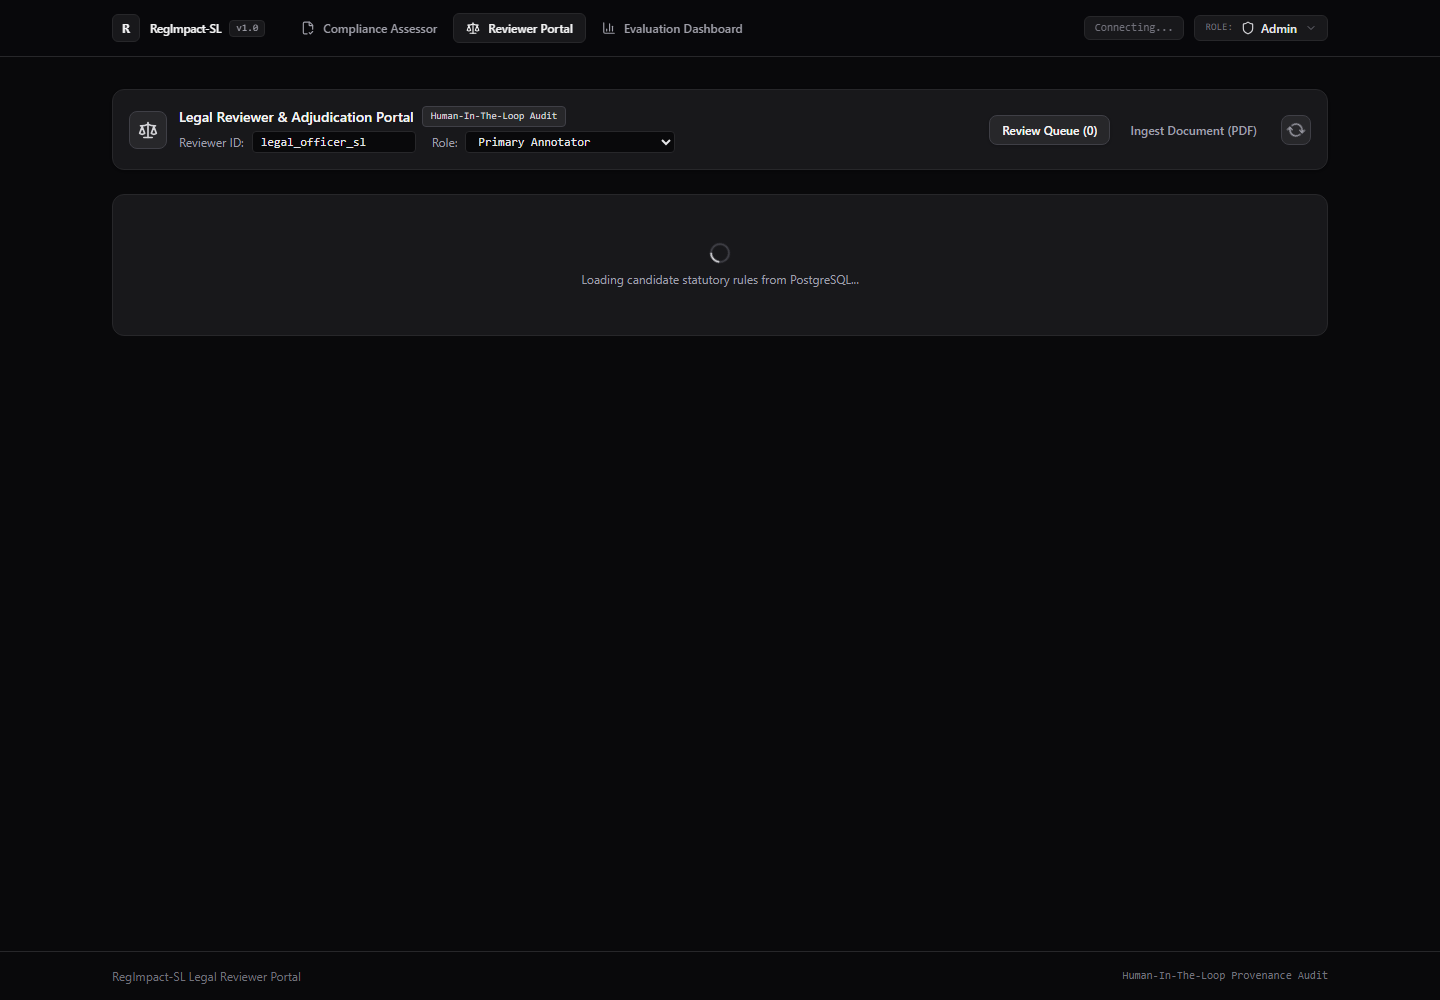
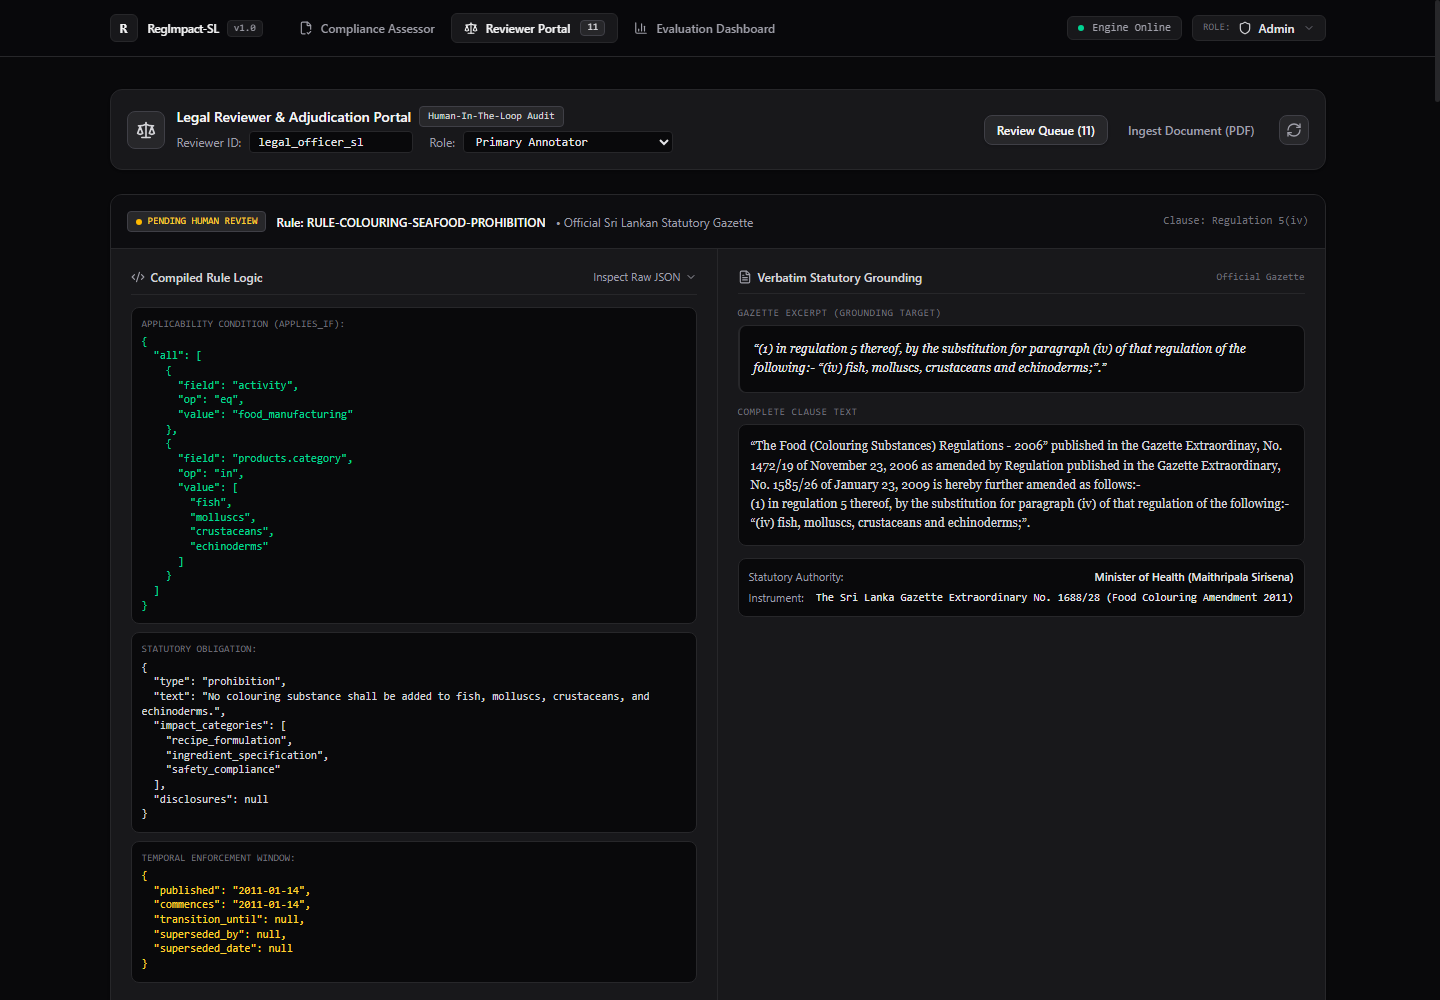
test: add automated post-ingestion evidence capture script and screenshots for phase 5.3b

diff --git a/scratch/capture_post_ingestion_evidence.js b/scratch/capture_post_ingestion_evidence.js
@@ -1,0 +1,221 @@
+const { spawn } = require('child_process');
+const http = require('http');
+const fs = require('fs');
+const path = require('path');
+
+const EDGE_PATH = 'C:\\Program Files (x86)\\Microsoft\\Edge\\Application\\msedge.exe';
+const USER_DATA_DIR = 'C:\\Users\\HP\\AppData\\Local\\Temp\\edge_cdp_uat_evidence_' + Date.now();
+const PORT = 9230;
+const EVIDENCE_DIR = path.resolve(__dirname, '../docs/evidence/phase_5_3b');
+
+function wait(ms) {
+  return new Promise(resolve => setTimeout(resolve, ms));
+}
+
+function getJson(url) {
+  return new Promise((resolve, reject) => {
+    http.get(url, res => {
+      let data = '';
+      res.on('data', chunk => data += chunk);
+      res.on('end', () => {
+        try {
+          resolve(JSON.parse(data));
+        } catch (e) {
+          reject(e);
+        }
+      });
+    }).on('error', reject);
+  });
+}
+
+class CDPClient {
+  constructor(wsUrl) {
+    this.ws = new WebSocket(wsUrl);
+    this.id = 1;
+    this.callbacks = new Map();
+    this.ws.onmessage = (event) => {
+      const msg = JSON.parse(event.data);
+      if (msg.id && this.callbacks.has(msg.id)) {
+        const { resolve, reject } = this.callbacks.get(msg.id);
+        this.callbacks.delete(msg.id);
+        if (msg.error) reject(msg.error);
+        else resolve(msg.result);
+      }
+    };
+  }
+
+  ready() {
+    return new Promise((resolve, reject) => {
+      if (this.ws.readyState === WebSocket.OPEN) return resolve();
+      this.ws.onopen = () => resolve();
+      this.ws.onerror = (e) => reject(e);
+    });
+  }
+
+  send(method, params = {}) {
+    const id = this.id++;
+    return new Promise((resolve, reject) => {
+      this.callbacks.set(id, { resolve, reject });
+      this.ws.send(JSON.stringify({ id, method, params }));
+    });
+  }
+
+  async eval(expression) {
+    const res = await this.send('Runtime.evaluate', {
+      expression,
+      returnByValue: true,
+      awaitPromise: true,
+    });
+    if (res.exceptionDetails) {
+      throw new Error(JSON.stringify(res.exceptionDetails));
+    }
+    return res.result ? res.result.value : undefined;
+  }
+
+  async navigate(url) {
+    await this.send('Page.navigate', { url });
+    await wait(2500);
+  }
+
+  async captureScreenshot(filename) {
+    const res = await this.send('Page.captureScreenshot', { format: 'png' });
+    const fullPath = path.join(EVIDENCE_DIR, filename);
+    fs.writeFileSync(fullPath, Buffer.from(res.data, 'base64'));
+    console.log(`[SCREENSHOT] Saved: ${filename}`);
+    return fullPath;
+  }
+}
+
+async function captureEvidence() {
+  console.log('=== CAPTURING POST-INGESTION EVIDENCE ===');
+
+  const edge = spawn(EDGE_PATH, [
+    '--headless=new',
+    '--disable-gpu',
+    '--remote-debugging-port=' + PORT,
+    '--user-data-dir=' + USER_DATA_DIR,
+    'about:blank',
+  ]);
+
+  let targets = null;
+  for (let i = 0; i < 25; i++) {
+    await wait(400);
+    try {
+      targets = await getJson(`http://127.0.0.1:${PORT}/json/list`);
+      if (targets && targets.length > 0) break;
+    } catch (e) {}
+  }
+
+  if (!targets || targets.length === 0) {
+    edge.kill();
+    throw new Error('Could not connect to Edge CDP');
+  }
+
+  const pageTarget = targets.find(t => t.type === 'page') || targets[0];
+  const cdp = new CDPClient(pageTarget.webSocketDebuggerUrl);
+  await cdp.ready();
+  await cdp.send('Page.enable');
+  await cdp.send('DOM.enable');
+
+  await cdp.send('Emulation.setDeviceMetricsOverride', {
+    width: 1440,
+    height: 1000,
+    deviceScaleFactor: 1,
+    mobile: false,
+  });
+
+  // 1. ADMIN DASHBOARD POST-INGESTION
+  console.log('\n--- 1. Admin Review & Ingestion Interface ---');
+  await cdp.navigate('http://localhost:3000/admin/reviews');
+  await cdp.eval(`
+    localStorage.setItem('user_role', 'admin');
+    window.dispatchEvent(new CustomEvent('regimpact:role_change', { detail: { role: 'admin' } }));
+  `);
+  await wait(1000);
+  await cdp.navigate('http://localhost:3000/admin/reviews');
+  await wait(2000);
+
+  // Check upload tab status
+  await cdp.eval(`
+    const ingestBtn = Array.from(document.querySelectorAll('button')).find(b => b.textContent.includes('Ingest Document'));
+    if (ingestBtn) ingestBtn.click();
+  `);
+  await wait(1000);
+  await cdp.captureScreenshot('03_upload_result.png');
+
+  // Check review queue tab
+  await cdp.eval(`
+    const queueBtn = Array.from(document.querySelectorAll('button')).find(b => b.textContent.includes('Review Queue'));
+    if (queueBtn) queueBtn.click();
+  `);
+  await wait(1500);
+  await cdp.captureScreenshot('04_processing_results.png');
+
+  // 2. LEGAL REVIEWER ROLE ACCEPTANCE
+  console.log('\n--- 2. Legal Reviewer Role Interface ---');
+  await cdp.eval(`
+    localStorage.setItem('user_role', 'reviewer');
+    window.dispatchEvent(new CustomEvent('regimpact:role_change', { detail: { role: 'reviewer' } }));
+  `);
+  await wait(1000);
+  await cdp.navigate('http://localhost:3000/admin/reviews');
+  await wait(2000);
+
+  const reviewerInfo = await cdp.eval(`({
+    roleBadge: document.querySelector('header span')?.textContent || '',
+    reviewQueueButtons: Array.from(document.querySelectorAll('button')).map(b => b.textContent.trim()).filter(t => t.includes('Queue')),
+    totalCards: document.querySelectorAll('.rounded-xl.border.border-zinc-800').length,
+    headings: Array.from(document.querySelectorAll('h1, h2, h3')).map(h => h.textContent.trim())
+  })`);
+  console.log('Reviewer Dashboard State:', reviewerInfo);
+  await cdp.captureScreenshot('05_reviewer_queue_new_candidates.png');
+
+  // Evidence details card
+  await cdp.captureScreenshot('06_reviewer_evidence_details.png');
+
+  // 3. SME USER EXPERIENCE & PENDING-RULE SAFETY ISOLATION
+  console.log('\n--- 3. SME User Experience & Pending Rule Isolation ---');
+  await cdp.eval(`
+    localStorage.setItem('user_role', 'sme_user');
+    window.dispatchEvent(new CustomEvent('regimpact:role_change', { detail: { role: 'sme_user' } }));
+  `);
+  await wait(1000);
+  await cdp.navigate('http://localhost:3000');
+  await wait(2000);
+
+  // Run compliance analysis
+  console.log('Running SME compliance analysis...');
+  await cdp.eval(`
+    const btn = Array.from(document.querySelectorAll('button')).find(b => b.textContent.includes('Analyze Compliance'));
+    if (btn) btn.click();
+  `);
+  await wait(4000);
+
+  const smeAnalysis = await cdp.eval(`(() => {
+    const cards = Array.from(document.querySelectorAll('.rounded-xl, .border-zinc-800')).map(c => c.textContent);
+    const hasSaltRules = cards.some(t => t.includes('2332') || t.includes('Iodization'));
+    const verdictBanner = document.querySelector('.text-2xl, .text-xl, .font-bold')?.textContent?.trim() || '';
+    return {
+      hasSaltRules,
+      verdictBanner,
+      resultsRendered: document.body.innerText.includes('Regulatory Compliance Dossier') || document.body.innerText.includes('Compliance')
+    };
+  })()`);
+  console.log('SME Analysis Result:', smeAnalysis);
+  await cdp.captureScreenshot('07_sme_assessment_safety_boundary.png');
+
+  edge.kill();
+  console.log('Evidence capture complete!');
+  return {
+    reviewerInfo,
+    smeAnalysis
+  };
+}
+
+captureEvidence().then(res => {
+  console.log('Result:', JSON.stringify(res, null, 2));
+  process.exit(0);
+}).catch(err => {
+  console.error('Error:', err);
+  process.exit(1);
+});
